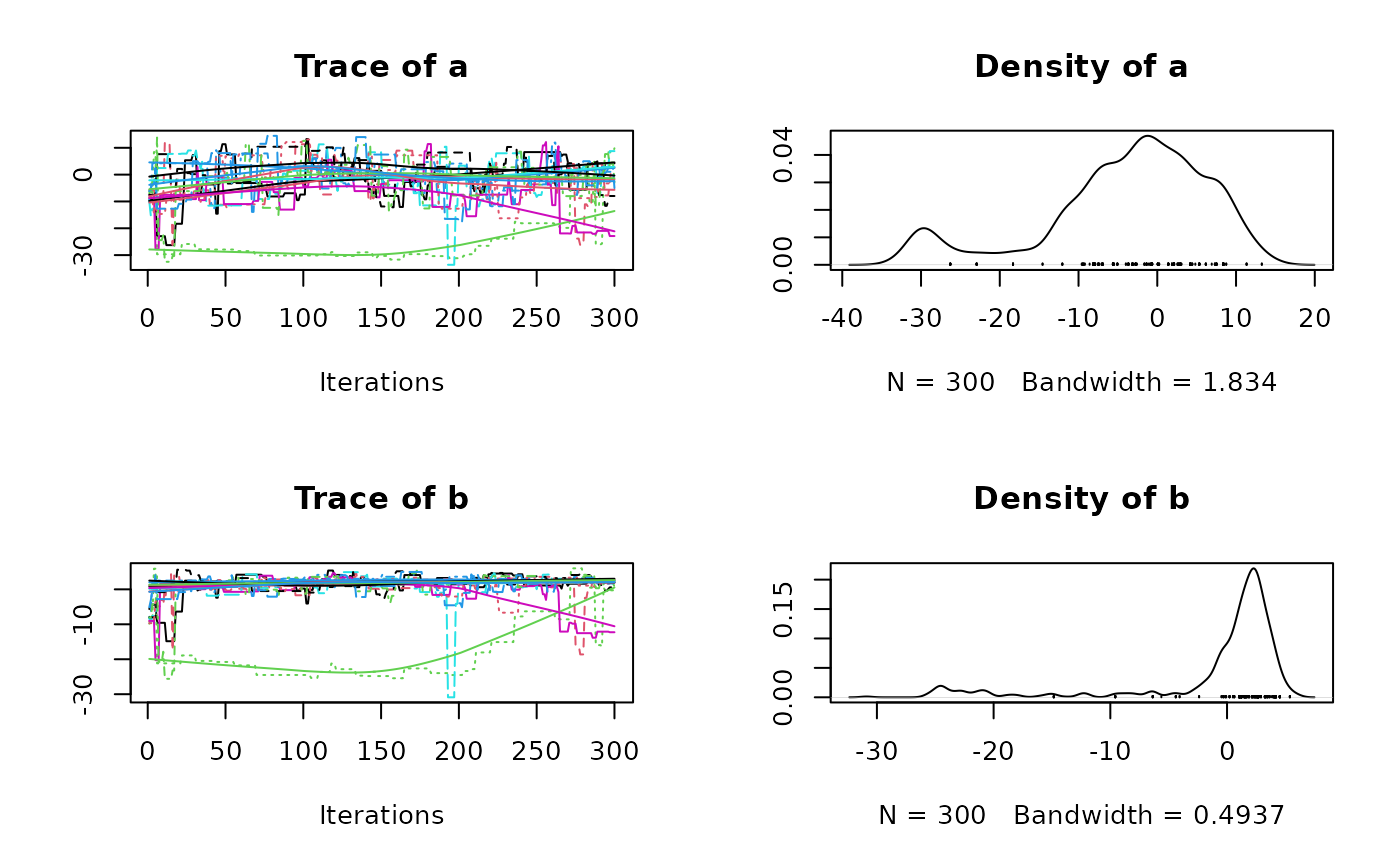
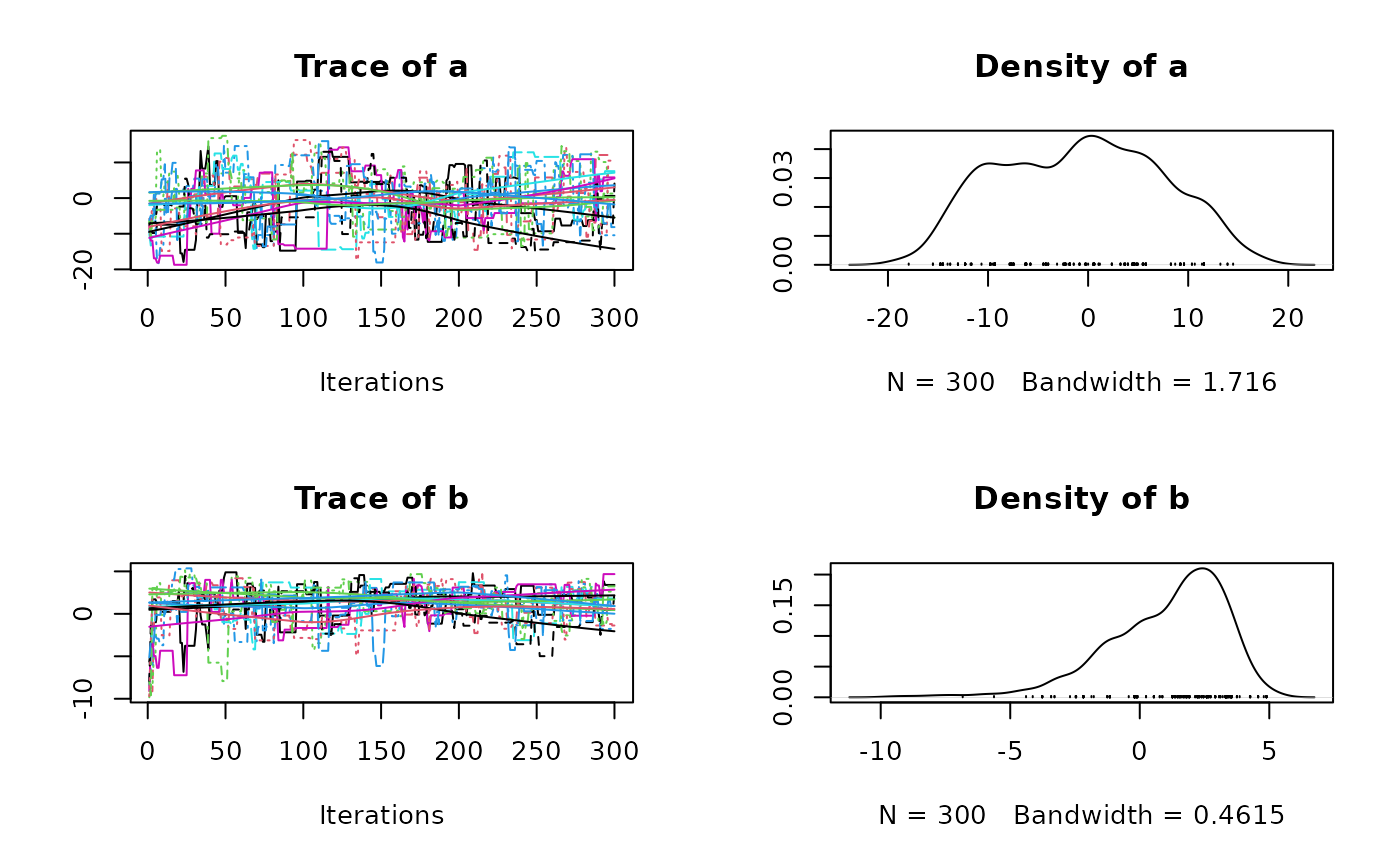
Deploying to gh-pages from @ Bisaloo/mcmcensemble@90d1b0008a2bc903ef6621ddc62e01a05fd8c089 🚀

diff --git a/articles/faq.html b/articles/faq.html
@@ -187,15 +187,15 @@ limits for the chains.</p>
 <span><span class="co">#&gt; 1. Empirical mean and standard deviation for each variable,</span></span>
 <span><span class="co">#&gt;    plus standard error of the mean:</span></span>
 <span><span class="co">#&gt; </span></span>
-<span><span class="co">#&gt;      Mean     SD Naive SE Time-series SE</span></span>
-<span><span class="co">#&gt; a -3.9285 10.591   0.1934         0.6925</span></span>
-<span><span class="co">#&gt; b -0.8462  7.234   0.1321         0.6588</span></span>
+<span><span class="co">#&gt;      Mean    SD Naive SE Time-series SE</span></span>
+<span><span class="co">#&gt; a -0.8432 8.030  0.14661         0.6125</span></span>
+<span><span class="co">#&gt; b  1.0343 2.286  0.04174         0.1609</span></span>
 <span><span class="co">#&gt; </span></span>
 <span><span class="co">#&gt; 2. Quantiles for each variable:</span></span>
 <span><span class="co">#&gt; </span></span>
-<span><span class="co">#&gt;     2.5%     25%    50%   75%  97.5%</span></span>
-<span><span class="co">#&gt; a -30.14 -8.0312 -1.855 3.464 11.283</span></span>
-<span><span class="co">#&gt; b -24.50 -0.3771  1.615 2.718  4.621</span></span></code></pre></div>
+<span><span class="co">#&gt;      2.5%     25%     50%   75%  97.5%</span></span>
+<span><span class="co">#&gt; a -14.461 -7.3898 -0.5432 5.457 13.256</span></span>
+<span><span class="co">#&gt; b  -4.347 -0.2204  1.5516 2.673  4.224</span></span></code></pre></div>
 <div class="sourceCode" id="cb5"><pre class="downlit sourceCode r">
 <code class="sourceCode R"><span><span class="fu"><a href="https://rdrr.io/r/graphics/plot.default.html" class="external-link">plot</a></span><span class="op">(</span><span class="va">res2</span><span class="op">$</span><span class="va">samples</span><span class="op">)</span></span></code></pre></div>
 <p><img src="faq_files/figure-html/unnamed-chunk-5-1.png" width="700"></p>
@@ -243,14 +243,14 @@ the function <code>f</code> you provide.</p>
 <span><span class="co">#&gt;    plus standard error of the mean:</span></span>
 <span><span class="co">#&gt; </span></span>
 <span><span class="co">#&gt;     Mean     SD Naive SE Time-series SE</span></span>
-<span><span class="co">#&gt; a 0.4793 0.2777 0.005071        0.02978</span></span>
-<span><span class="co">#&gt; b 0.6765 0.2537 0.004633        0.02676</span></span>
+<span><span class="co">#&gt; a 0.4952 0.2811 0.005132        0.03139</span></span>
+<span><span class="co">#&gt; b 0.6649 0.2446 0.004466        0.02832</span></span>
 <span><span class="co">#&gt; </span></span>
 <span><span class="co">#&gt; 2. Quantiles for each variable:</span></span>
 <span><span class="co">#&gt; </span></span>
 <span><span class="co">#&gt;      2.5%    25%    50%    75%  97.5%</span></span>
-<span><span class="co">#&gt; a 0.01499 0.2455 0.4815 0.7073 0.9569</span></span>
-<span><span class="co">#&gt; b 0.08775 0.5127 0.7478 0.8829 0.9944</span></span></code></pre></div>
+<span><span class="co">#&gt; a 0.02354 0.2621 0.4926 0.7373 0.9733</span></span>
+<span><span class="co">#&gt; b 0.12695 0.4974 0.7093 0.8689 0.9894</span></span></code></pre></div>
 <div class="sourceCode" id="cb7"><pre class="downlit sourceCode r">
 <code class="sourceCode R"><span><span class="fu"><a href="https://rdrr.io/r/graphics/plot.default.html" class="external-link">plot</a></span><span class="op">(</span><span class="va">res</span><span class="op">$</span><span class="va">samples</span><span class="op">)</span></span></code></pre></div>
 <p><img src="faq_files/figure-html/unnamed-chunk-7-1.png" width="700"></p>
@@ -292,14 +292,14 @@ log-posterior and it is not necessary to define it explicitly:</p>
 <span><span class="co">#&gt;    plus standard error of the mean:</span></span>
 <span><span class="co">#&gt; </span></span>
 <span><span class="co">#&gt;     Mean     SD Naive SE Time-series SE</span></span>
-<span><span class="co">#&gt; a 0.4734 0.2966 0.004195        0.02474</span></span>
-<span><span class="co">#&gt; b 0.6475 0.2566 0.003629        0.02071</span></span>
+<span><span class="co">#&gt; a 0.4909 0.2908 0.004113        0.02486</span></span>
+<span><span class="co">#&gt; b 0.7059 0.2435 0.003443        0.02487</span></span>
 <span><span class="co">#&gt; </span></span>
 <span><span class="co">#&gt; 2. Quantiles for each variable:</span></span>
 <span><span class="co">#&gt; </span></span>
 <span><span class="co">#&gt;      2.5%    25%    50%    75%  97.5%</span></span>
-<span><span class="co">#&gt; a 0.01453 0.2200 0.4412 0.7289 0.9801</span></span>
-<span><span class="co">#&gt; b 0.08452 0.4832 0.7014 0.8614 0.9866</span></span></code></pre></div>
+<span><span class="co">#&gt; a 0.03674 0.2337 0.4820 0.7462 0.9744</span></span>
+<span><span class="co">#&gt; b 0.12457 0.5699 0.7736 0.9042 0.9922</span></span></code></pre></div>
 <div class="sourceCode" id="cb9"><pre class="downlit sourceCode r">
 <code class="sourceCode R"><span><span class="fu"><a href="https://rdrr.io/r/graphics/plot.default.html" class="external-link">plot</a></span><span class="op">(</span><span class="va">res</span><span class="op">$</span><span class="va">samples</span><span class="op">)</span></span></code></pre></div>
 <p><img src="faq_files/figure-html/unnamed-chunk-9-1.png" width="700"></p>

diff --git a/reference/MCMCEnsemble.html b/reference/MCMCEnsemble.html
@@ -255,15 +255,15 @@ Communications in Applied Mathematics and Computational Science, 5(1), 65–80,
 <span class="r-out co"><span class="r-pr">#&gt;</span> 1. Empirical mean and standard deviation for each variable,</span>
 <span class="r-out co"><span class="r-pr">#&gt;</span>    plus standard error of the mean:</span>
 <span class="r-out co"><span class="r-pr">#&gt;</span> </span>
-<span class="r-out co"><span class="r-pr">#&gt;</span>     Mean    SD Naive SE Time-series SE</span>
-<span class="r-out co"><span class="r-pr">#&gt;</span> a 2.1487 8.259   0.4769         1.3756</span>
-<span class="r-out co"><span class="r-pr">#&gt;</span> b 0.5588 3.759   0.2170         0.6461</span>
+<span class="r-out co"><span class="r-pr">#&gt;</span>      Mean    SD Naive SE Time-series SE</span>
+<span class="r-out co"><span class="r-pr">#&gt;</span> a -0.8709 5.816   0.3358         0.7666</span>
+<span class="r-out co"><span class="r-pr">#&gt;</span> b  1.6973 1.978   0.1142         0.2361</span>
 <span class="r-out co"><span class="r-pr">#&gt;</span> </span>
 <span class="r-out co"><span class="r-pr">#&gt;</span> 2. Quantiles for each variable:</span>
 <span class="r-out co"><span class="r-pr">#&gt;</span> </span>
-<span class="r-out co"><span class="r-pr">#&gt;</span>     2.5%    25%    50%   75%  97.5%</span>
-<span class="r-out co"><span class="r-pr">#&gt;</span> a -14.95 -2.905 0.7527 5.261 20.854</span>
-<span class="r-out co"><span class="r-pr">#&gt;</span> b -11.78 -0.483 1.4058 3.402  4.226</span>
+<span class="r-out co"><span class="r-pr">#&gt;</span>      2.5%     25%     50%   75%  97.5%</span>
+<span class="r-out co"><span class="r-pr">#&gt;</span> a -13.490 -4.7414 0.09942 1.692 12.345</span>
+<span class="r-out co"><span class="r-pr">#&gt;</span> b  -3.665  0.8207 1.99552 3.137  4.383</span>
 <span class="r-out co"><span class="r-pr">#&gt;</span> </span>
 <span class="r-in"><span><span class="fu"><a href="https://rdrr.io/r/graphics/plot.default.html" class="external-link">plot</a></span><span class="op">(</span><span class="va">res3</span><span class="op">$</span><span class="va">samples</span><span class="op">)</span></span></span>
 <span class="r-plt img"><img src="MCMCEnsemble-2.png" alt="" width="700" height="433"></span>
